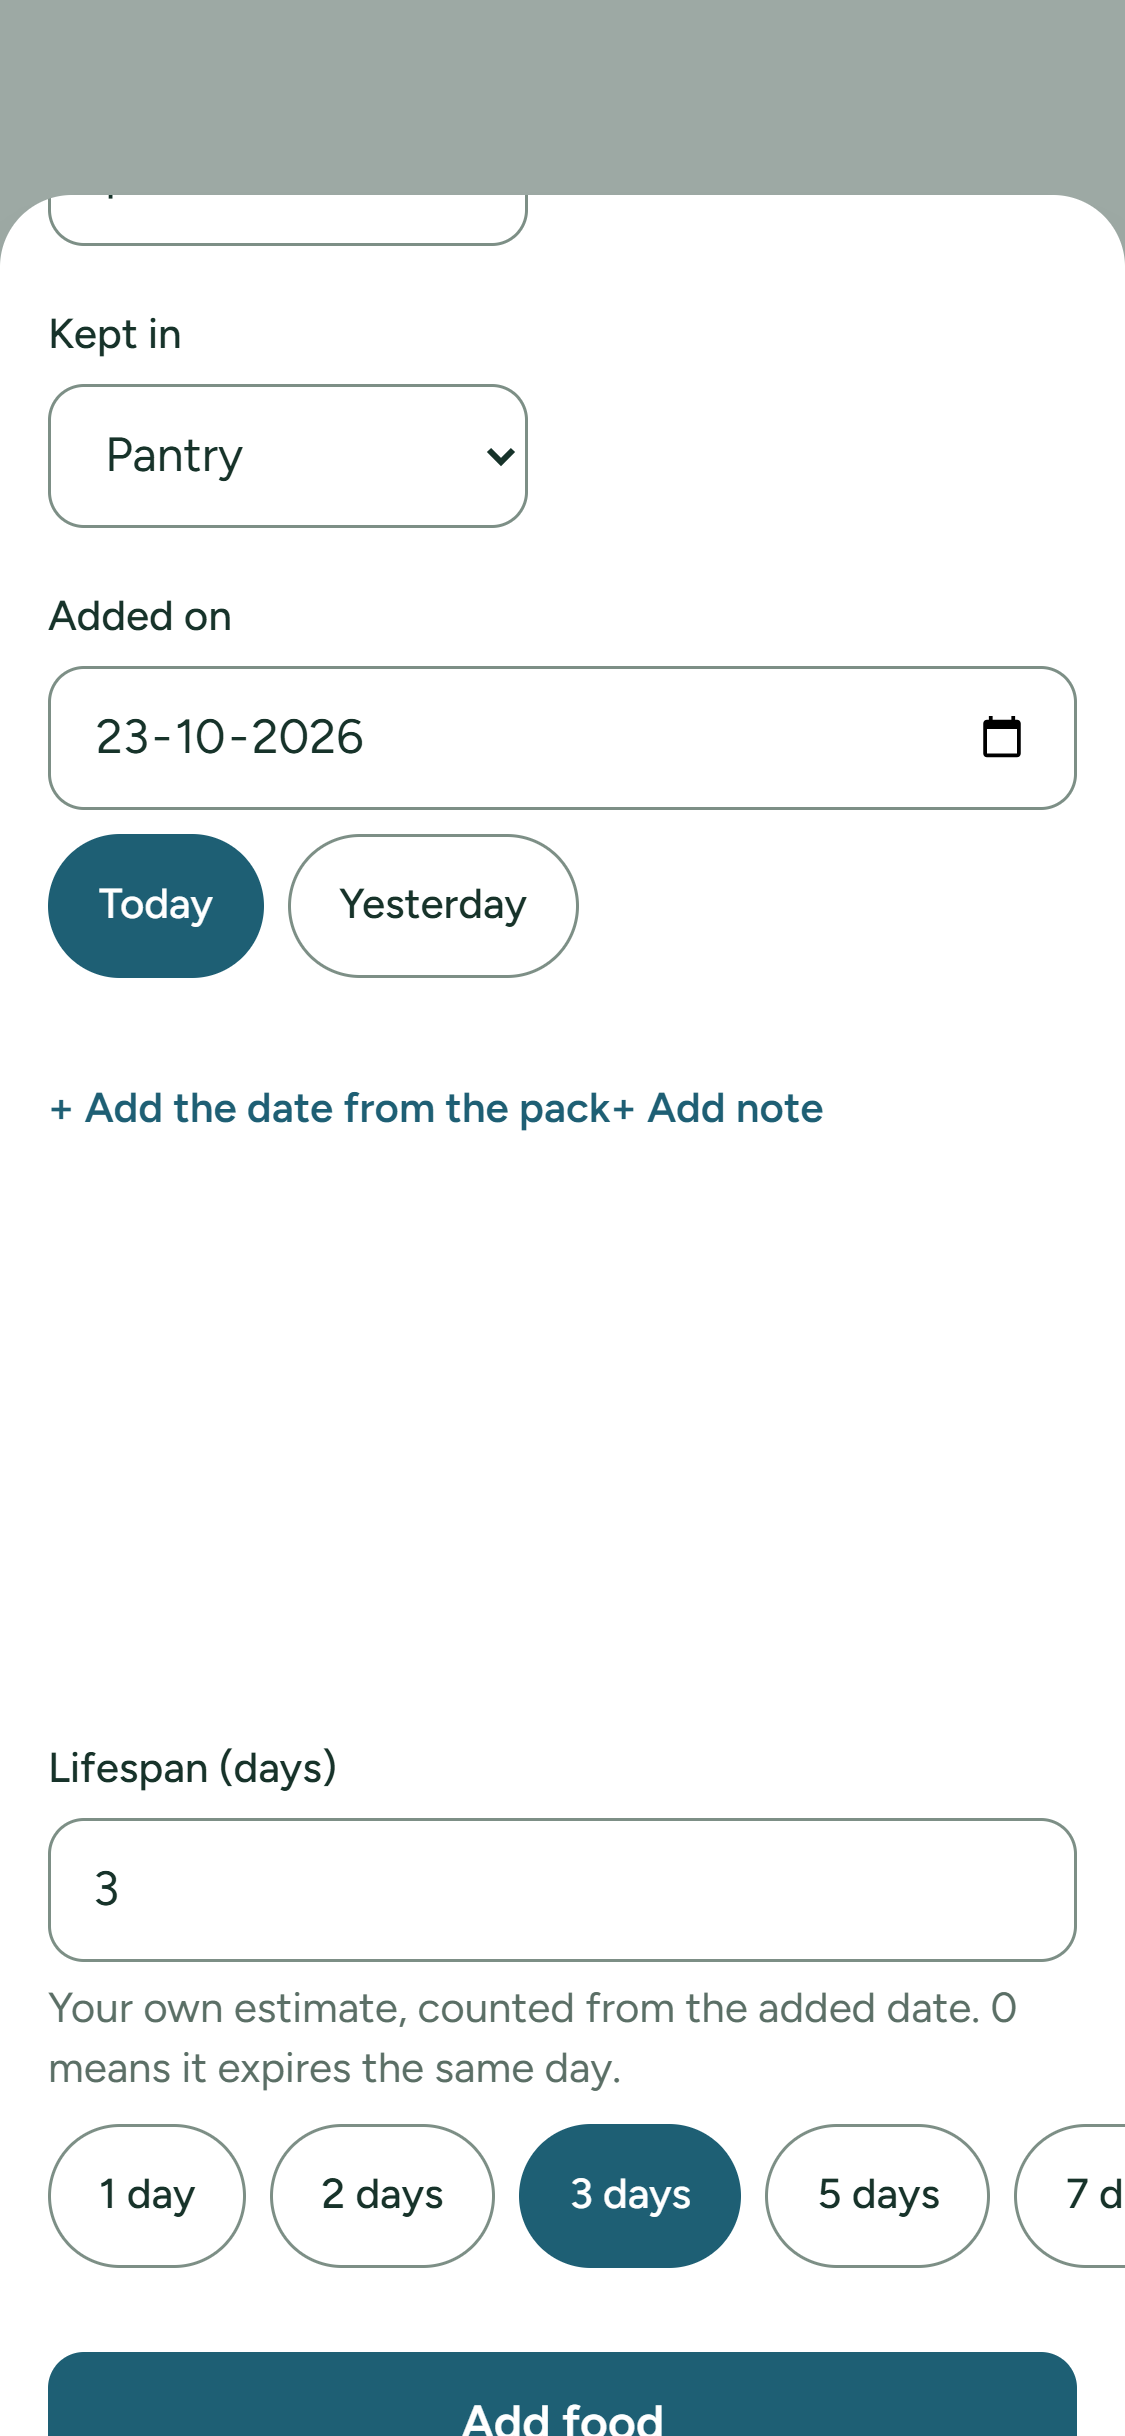
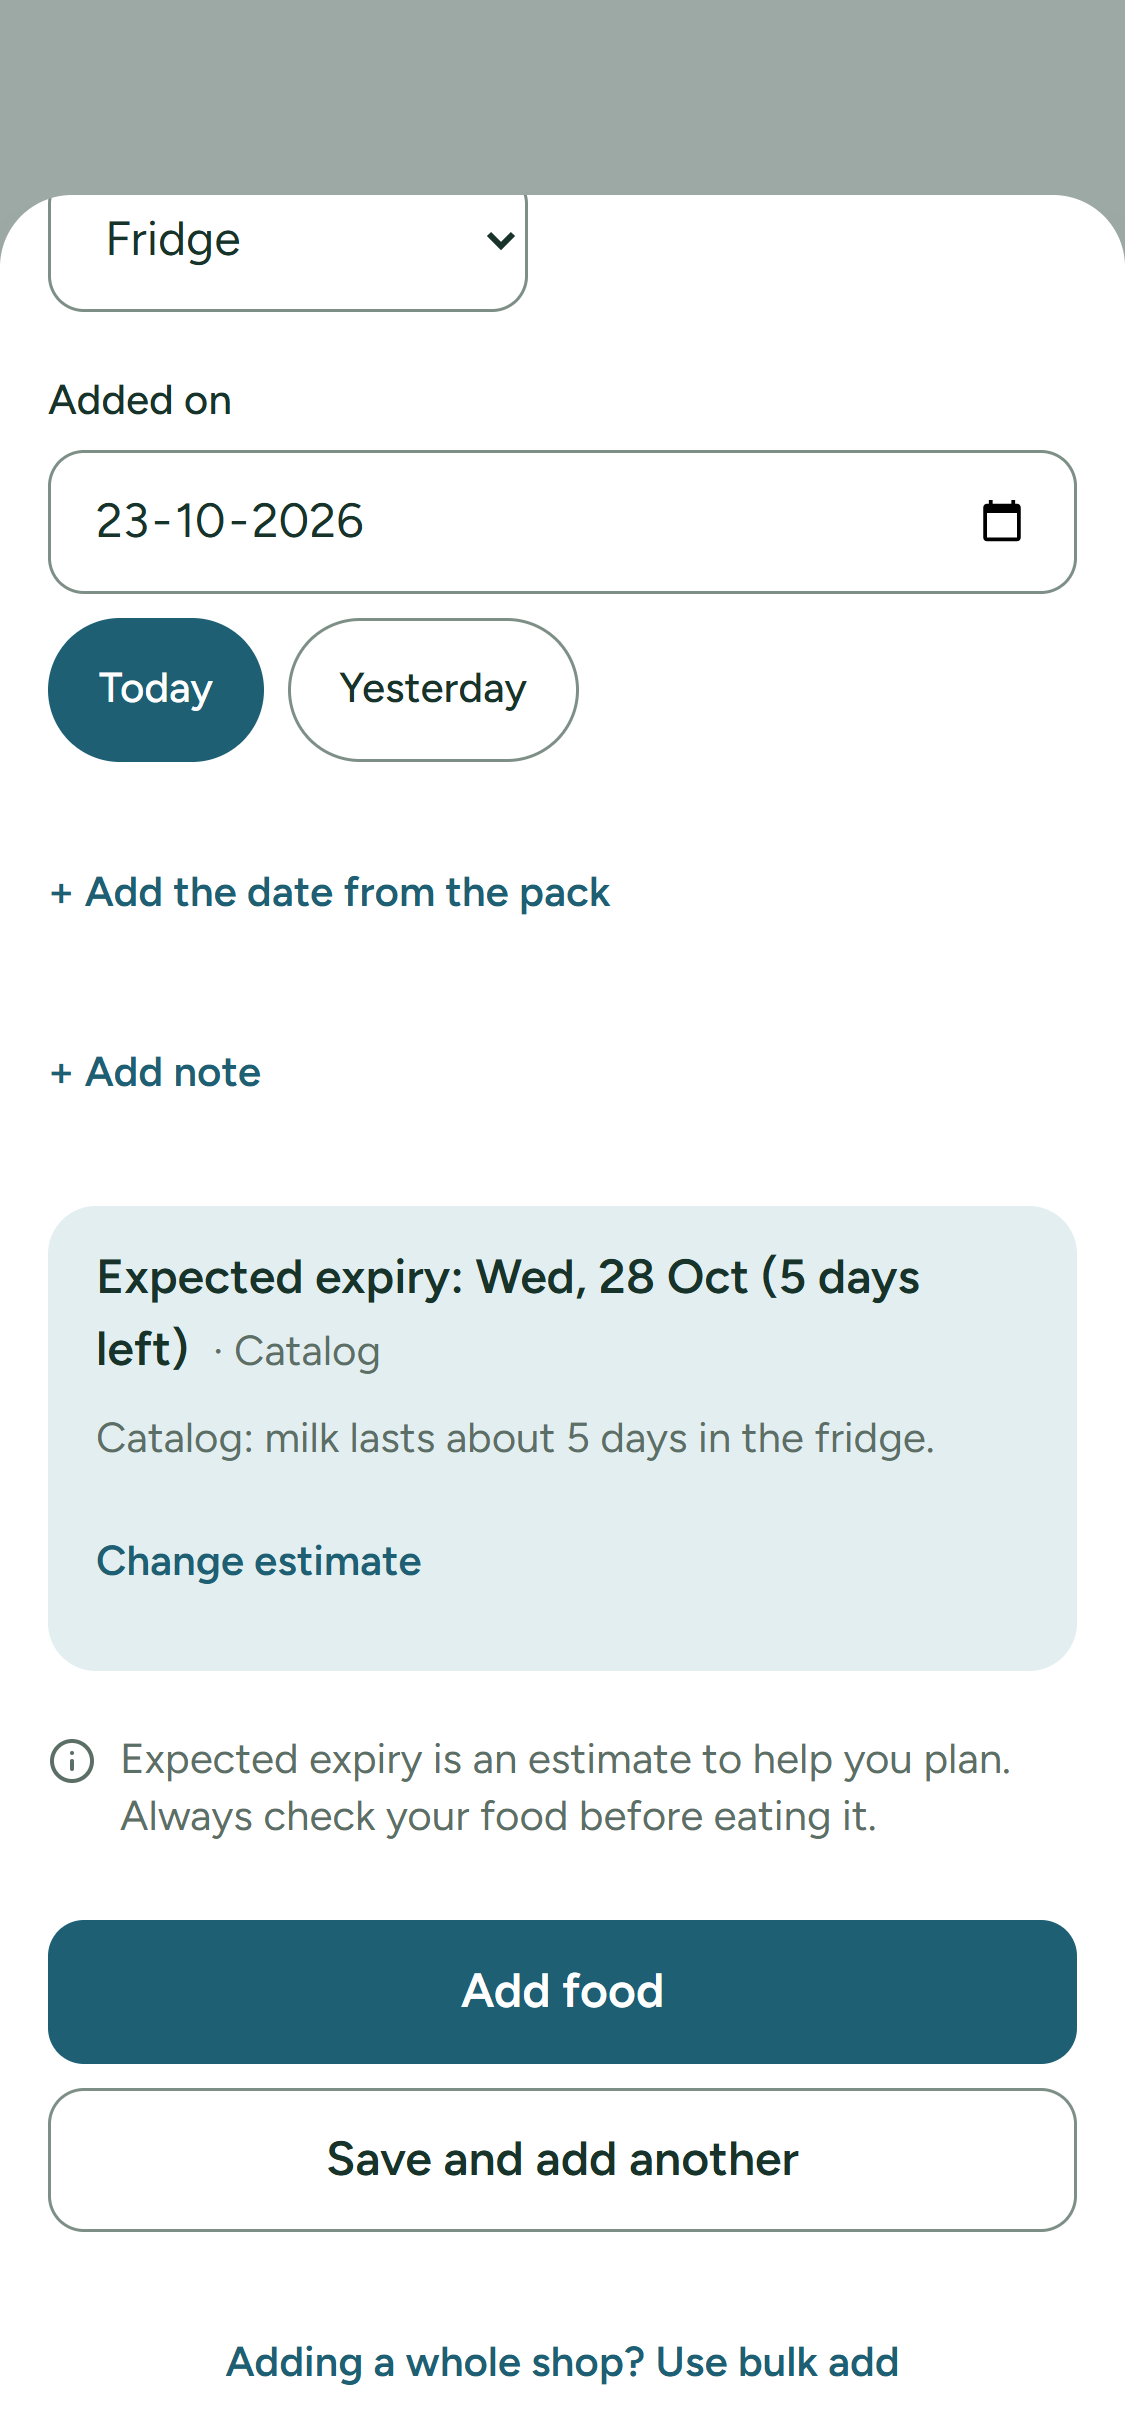
fix(add-food): space out the extra links and hide the estimate until there is one
- "+ Add the date from the pack" and "+ Add note" were inline buttons, so they ran
  together on one line; each now sits on its own line with space between them.
- The expected-expiry box only appears once there's an estimate to show (the date,
  where it comes from and why). Before that it takes no space at all; the "always
  check your food" reminder stays on screen either way.
- Screenshots hid every aria-live="polite" element to hide toasts, which also hid the
  estimate and left a blank gap in docs/screenshots. The toast now carries
  data-toast and only that is hidden. Re-captured mobile-07-add-food.png.

diff --git a/client/src/components/FoodForm.tsx b/client/src/components/FoodForm.tsx
@@ -219,7 +219,6 @@ export function FoodForm({ initial, prefill, current, submitLabel, onSubmit, all
       explanation: estimate.explanation,
     };
   }
-  const expiryDate = shown?.expiryDate ?? null;
 
   function validate(): FoodInput | null {
     const { data, errors: found } = check(createFoodSchema, {
@@ -473,86 +472,93 @@ export function FoodForm({ initial, prefill, current, submitLabel, onSubmit, all
         </div>
       </div>
 
-      {!showPrinted ? (
-        <button
-          type="button"
-          onClick={() => setShowPrinted(true)}
-          className="inline-flex min-h-12 items-center text-sm font-semibold text-brand underline-offset-2 hover:underline"
-        >
-          + {expiryCopy.addPrinted}
-        </button>
-      ) : (
-        <div className="space-y-2">
-          <Field
-            label={expiryCopy.printedLabel}
-            type="date"
-            value={printedDate}
-            onChange={(e) => setPrintedDate(e.target.value)}
-            hint={printedDate !== '' && !printedUsable ? expiryCopy.printedIgnored : expiryCopy.printedHint}
-          />
-          <div className="flex flex-wrap gap-2" role="group" aria-label={expiryCopy.printedTypeLabel}>
-            {PRINTED_DATE_TYPES.filter((type) => type !== 'UNKNOWN').map((type) => (
-              <Chip key={type} selected={printedDateType === type} onClick={() => setPrintedDateType(type)}>
-                {expiryCopy.printedTypes[type]}
-              </Chip>
-            ))}
-          </div>
-        </div>
-      )}
-
-      {!showNotes ? (
-        <button
-          type="button"
-          onClick={() => setShowNotes(true)}
-          className="inline-flex min-h-12 items-center text-sm font-semibold text-brand underline-offset-2 hover:underline"
-        >
-          + {screenCopy.form.addNote}
-        </button>
-      ) : (
-        <div>
-          <label htmlFor={notesId} className="mb-1.5 block text-sm font-medium text-ink">
-            Notes <span className="font-normal text-muted">(optional)</span>
-          </label>
-          <textarea
-            id={notesId}
-            rows={2}
-            maxLength={NOTES_MAX}
-            placeholder="e.g. Opened, top shelf"
-            value={notes}
-            onChange={(e) => {
-              setNotes(e.target.value);
-              clearError('notes');
-            }}
-            aria-invalid={errors.notes ? true : undefined}
-            className={`block w-full rounded-button border bg-card px-3.5 py-3 text-base text-ink placeholder:text-muted/70 focus:border-brand focus:outline-none ${
-              errors.notes ? 'border-danger' : 'border-field'
-            }`}
-          />
-          <p className={`mt-1.5 text-sm ${errors.notes ? 'text-danger' : 'text-muted'}`}>
-            {errors.notes ?? `${notes.length}/${NOTES_MAX}`}
-          </p>
-        </div>
-      )}
-
-      <div aria-live="polite" className="space-y-2 rounded-card bg-brand-soft px-4 py-3">
-        <p className="text-base font-semibold text-ink">
-          {expiryDate
-            ? screenCopy.form.preview(formatDisplay(expiryDate), diffDays(today, expiryDate))
-            : screenCopy.form.previewEmpty}
-          {shown && <span className="ml-2 text-sm font-normal text-muted">· {shown.label}</span>}
-        </p>
-        {shown && <p className="text-sm leading-snug text-muted">{shown.explanation}</p>}
-        {!showEstimate && (
+      {/* The optional extras: each link sits on its own line, and opens in place. */}
+      <div className="space-y-3">
+        {!showPrinted ? (
           <button
             type="button"
-            onClick={() => setShowEstimate(true)}
-            className="inline-flex min-h-12 items-center text-sm font-semibold text-brand underline-offset-2 hover:underline"
+            onClick={() => setShowPrinted(true)}
+            className="flex min-h-12 w-fit items-center text-sm font-semibold text-brand underline-offset-2 hover:underline"
           >
-            {expiryCopy.changeEstimate}
+            + {expiryCopy.addPrinted}
           </button>
+        ) : (
+          <div className="space-y-2">
+            <Field
+              label={expiryCopy.printedLabel}
+              type="date"
+              value={printedDate}
+              onChange={(e) => setPrintedDate(e.target.value)}
+              hint={printedDate !== '' && !printedUsable ? expiryCopy.printedIgnored : expiryCopy.printedHint}
+            />
+            <div className="flex flex-wrap gap-2" role="group" aria-label={expiryCopy.printedTypeLabel}>
+              {PRINTED_DATE_TYPES.filter((type) => type !== 'UNKNOWN').map((type) => (
+                <Chip key={type} selected={printedDateType === type} onClick={() => setPrintedDateType(type)}>
+                  {expiryCopy.printedTypes[type]}
+                </Chip>
+              ))}
+            </div>
+          </div>
         )}
-        <EstimateNote />
+
+        {!showNotes ? (
+          <button
+            type="button"
+            onClick={() => setShowNotes(true)}
+            className="flex min-h-12 w-fit items-center text-sm font-semibold text-brand underline-offset-2 hover:underline"
+          >
+            + {screenCopy.form.addNote}
+          </button>
+        ) : (
+          <div>
+            <label htmlFor={notesId} className="mb-1.5 block text-sm font-medium text-ink">
+              Notes <span className="font-normal text-muted">(optional)</span>
+            </label>
+            <textarea
+              id={notesId}
+              rows={2}
+              maxLength={NOTES_MAX}
+              placeholder="e.g. Opened, top shelf"
+              value={notes}
+              onChange={(e) => {
+                setNotes(e.target.value);
+                clearError('notes');
+              }}
+              aria-invalid={errors.notes ? true : undefined}
+              className={`block w-full rounded-button border bg-card px-3.5 py-3 text-base text-ink placeholder:text-muted/70 focus:border-brand focus:outline-none ${
+                errors.notes ? 'border-danger' : 'border-field'
+              }`}
+            />
+            <p className={`mt-1.5 text-sm ${errors.notes ? 'text-danger' : 'text-muted'}`}>
+              {errors.notes ?? `${notes.length}/${NOTES_MAX}`}
+            </p>
+          </div>
+        )}
       </div>
+
+      {/* The expected expiry and where it comes from, once there's one to show; until then nothing, not an empty box. */}
+      <div aria-live="polite" className="empty:hidden">
+        {shown && (
+          <div className="space-y-2 rounded-card bg-brand-soft px-4 py-3">
+            <p className="text-base font-semibold text-ink">
+              {screenCopy.form.preview(formatDisplay(shown.expiryDate), diffDays(today, shown.expiryDate))}
+              <span className="ml-2 text-sm font-normal text-muted">· {shown.label}</span>
+            </p>
+            <p className="text-sm leading-snug text-muted">{shown.explanation}</p>
+            {!showEstimate && (
+              <button
+                type="button"
+                onClick={() => setShowEstimate(true)}
+                className="inline-flex min-h-12 items-center text-sm font-semibold text-brand underline-offset-2 hover:underline"
+              >
+                {expiryCopy.changeEstimate}
+              </button>
+            )}
+          </div>
+        )}
+      </div>
+      {/* The reminder to check food is always on screen, estimate or not. */}
+      <EstimateNote />
 
       {showEstimate && (
         <div>

diff --git a/client/src/test/pages.test.tsx b/client/src/test/pages.test.tsx
@@ -297,9 +297,17 @@ describe('Add food form', () => {
     expect(screen.getByLabelText('Quantity')).toHaveValue(1);
     expect(screen.getByLabelText('Unit')).toHaveValue('pcs');
     expect((screen.getByLabelText('Added on') as HTMLInputElement).value).toMatch(/^\d{4}-\d{2}-\d{2}$/);
-    // There is no lifespan to fill in: only a link to change the estimate.
+    // There is no lifespan to fill in, and no expected expiry (or empty box) until there's a food to estimate.
     expect(screen.queryByLabelText('Lifespan (days)')).not.toBeInTheDocument();
-    expect(screen.getByRole('button', { name: 'Change estimate' })).toBeInTheDocument();
+    expect(screen.queryByText(/^Expected expiry:/)).not.toBeInTheDocument();
+    expect(screen.queryByRole('button', { name: 'Change estimate' })).not.toBeInTheDocument();
+  });
+
+  it('puts "Add the date from the pack" and "Add note" on separate lines', () => {
+    renderSignedIn('/add', <AddFoodPage />);
+    for (const name of ['+ Add the date from the pack', '+ Add note']) {
+      expect(screen.getByRole('button', { name })).toHaveClass('flex', 'w-fit');
+    }
   });
 
   it('shows the live preview as "Expected expiry: <date> (<n> days left)" with the disclaimer', async () => {
@@ -308,6 +316,9 @@ describe('Add food form', () => {
     await user.type(screen.getByLabelText('Food'), 'Zorblax');
     expect(screen.getByText(/^Expected expiry: \w{3}, \d{1,2} \w{3} \(3 days left\)$/)).toBeInTheDocument();
     expect(screen.getByText('· Rough estimate')).toBeInTheDocument();
+    await user.clear(screen.getByLabelText('Food'));
+    expect(screen.queryByText(/^Expected expiry:/)).not.toBeInTheDocument();
+    await user.type(screen.getByLabelText('Food'), 'Zorblax');
     await user.click(screen.getByRole('button', { name: 'Change estimate' }));
     await user.click(screen.getByRole('button', { name: '2 days' }));
     expect(screen.getByText(/^Expected expiry: \w{3}, \d{1,2} \w{3} \(2 days left\)$/)).toBeInTheDocument();

diff --git a/client/src/test/addfood.test.tsx b/client/src/test/addfood.test.tsx
@@ -158,6 +158,7 @@ describe('number keyboards and lifespan quick picks', () => {
     expect(screen.getByLabelText(/^Price/)).toHaveAttribute('inputmode', 'decimal');
     // The lifespan is not asked for; it appears behind "Change estimate".
     expect(screen.queryByLabelText('Lifespan (days)')).not.toBeInTheDocument();
+    await reader.type(screen.getByLabelText('Food'), 'Milk');
     await reader.click(screen.getByRole('button', { name: 'Change estimate' }));
     expect(screen.getByLabelText('Lifespan (days)')).toHaveAttribute('inputmode', 'numeric');
   });
@@ -165,6 +166,8 @@ describe('number keyboards and lifespan quick picks', () => {
   it('has quick-pick chips for the lifespan behind "Change estimate", and choosing one fills it in', async () => {
     const reader = userEvent.setup();
     renderSignedIn('/add', <AddFoodPage />);
+    // "Change estimate" sits with the estimate, which appears once there's a food to estimate.
+    await reader.type(await screen.findByLabelText('Food'), 'Milk');
     await reader.click(screen.getByRole('button', { name: 'Change estimate' }));
     for (const label of ['1 day', '2 days', '3 days', '5 days', '7 days', '14 days']) {
       expect(await screen.findByRole('button', { name: label })).toBeInTheDocument();

diff --git a/e2e/journey.spec.ts b/e2e/journey.spec.ts
@@ -124,7 +124,7 @@ async function shot(page: Page, name: string) {
   // Hide passing toasts so they don't cover the screen being shown.
   await page.screenshot({
     path: `e2e/screenshots/${test.info().project.name}/${name}.png`,
-    style: '[aria-live="polite"] { visibility: hidden !important; }',
+    style: '[data-toast] { visibility: hidden !important; }',
   });
 }
 
@@ -443,7 +443,7 @@ test('phase 3: installable app; push reminders ask for permission only after "Tu
   await shot(page, '14-settings-full');
   await page.getByRole('region', { name: 'Push reminders' }).screenshot({
     path: `e2e/screenshots/${test.info().project.name}/14-push-settings.png`,
-    style: '[aria-live="polite"], nav { visibility: hidden !important; }',
+    style: '[data-toast], nav { visibility: hidden !important; }',
   });
   await page.reload();
   await expect(page.getByRole('button', { name: /One per item/ })).toHaveAttribute('aria-pressed', 'true');

diff --git a/client/src/copy.ts b/client/src/copy.ts
@@ -86,7 +86,6 @@ export const screenCopy = {
     /** "Expected expiry: Thu, 1 Oct (2 days left)". */
     preview: (date: string, remainingDays: number) =>
       `Expected expiry: ${date} (${remainingDays === 0 ? 'today' : remainingText(remainingDays)})`,
-    previewEmpty: 'Expected expiry: enter the food to see it',
     lifespanHint: 'Your own estimate, counted from the added date. 0 means it expires the same day.',
     addNote: 'Add note',
     priceHint: 'Optional. What it cost in total. Used only for the money figures on Insights.',

diff --git a/e2e/design-review.spec.ts b/e2e/design-review.spec.ts
@@ -65,7 +65,7 @@ test('design review: every main screen, light and dark', async ({ browser }) => 
       await page.screenshot({
         path: `${OUT}/${scheme}/${String(i + 1).padStart(2, '0')}-${screen.name}.png`,
         fullPage: true,
-        style: '[aria-live="polite"] { visibility: hidden !important; }',
+        style: '[data-toast] { visibility: hidden !important; }',
       });
     }
     // The "Used" sheet, over the home screen.

diff --git a/client/src/components/ui.tsx b/client/src/components/ui.tsx
@@ -339,6 +339,7 @@ export function Toast() {
   return (
     <div
       aria-live="polite"
+      data-toast
       className="pointer-events-none fixed inset-x-0 bottom-28 z-50 flex justify-center px-4 lg:bottom-8 lg:left-64"
     >
       {message && (
